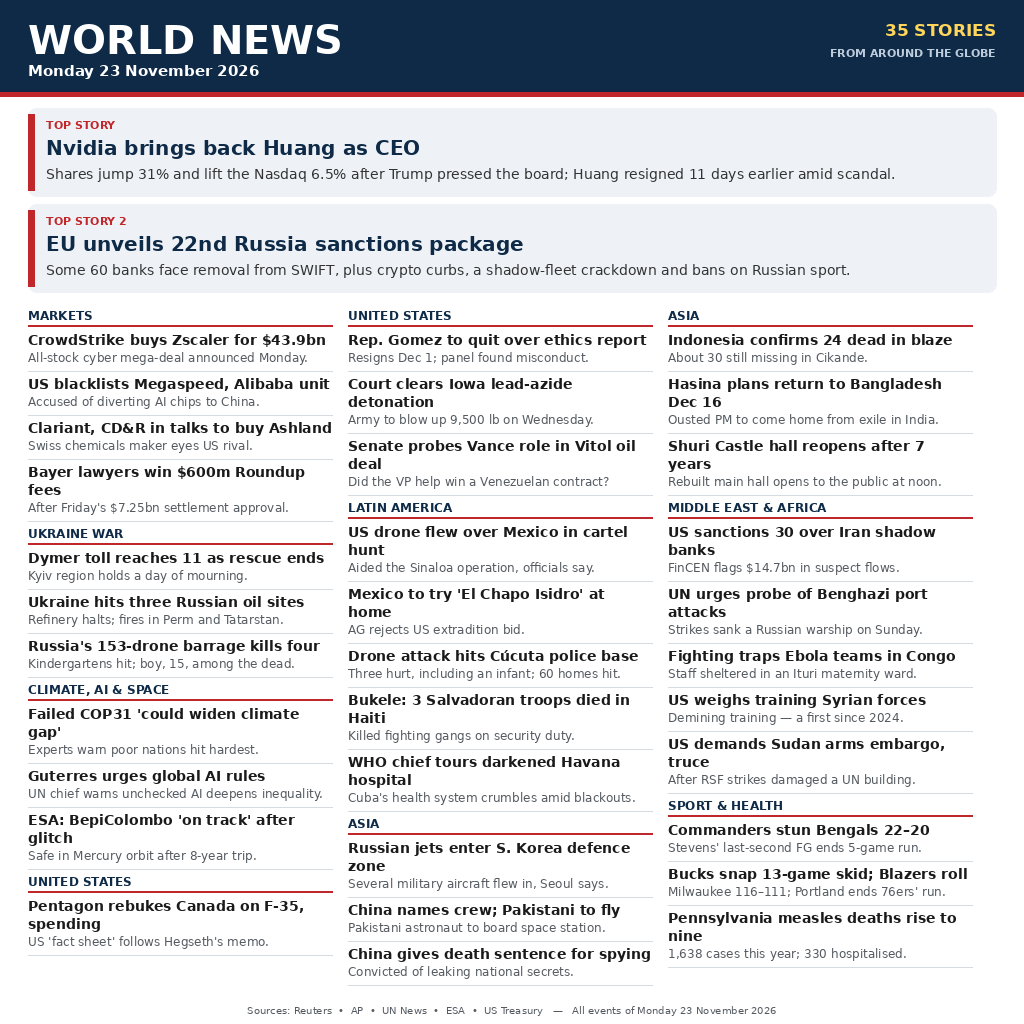
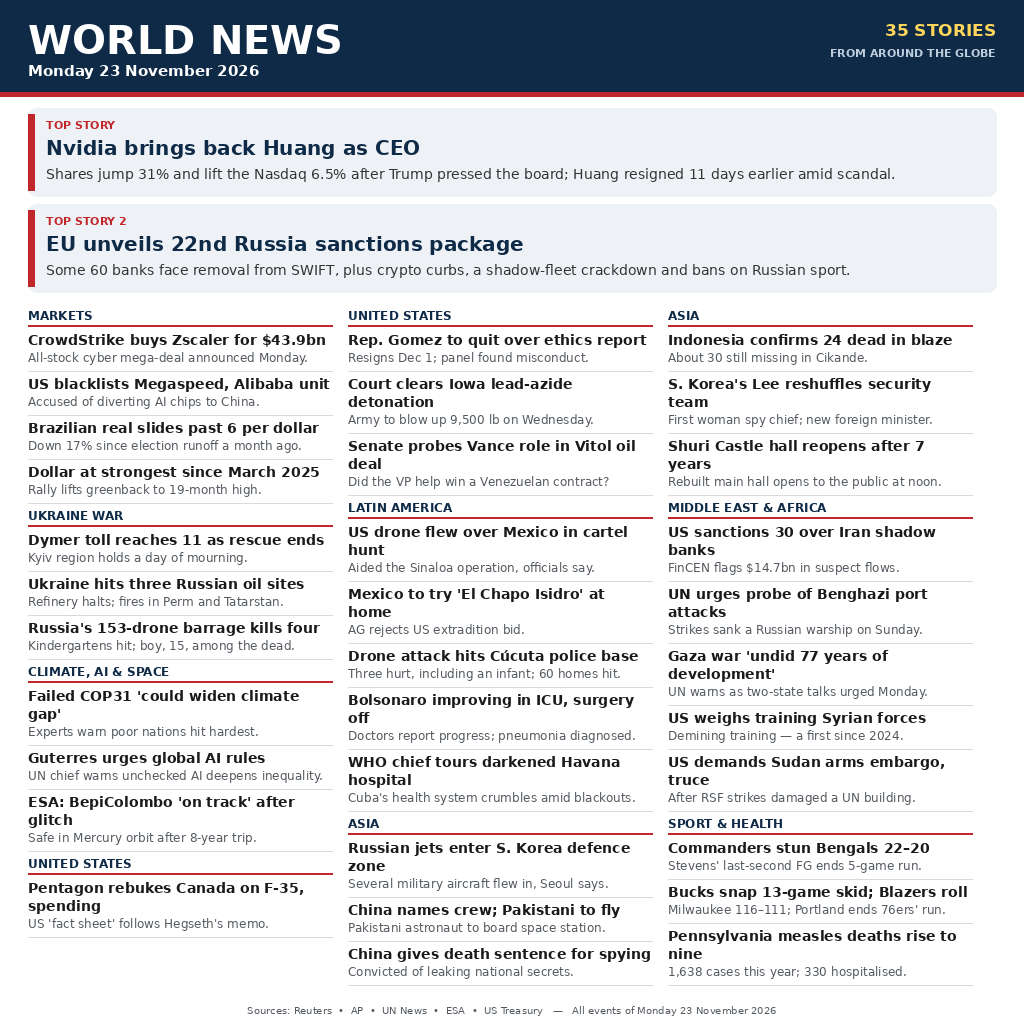
Replace 5 misdated stories (#8, #15, #16, #18, #22) with verified 23 Nov 2026 items

diff --git a/generate.py b/generate.py
@@ -65,10 +65,10 @@ ITEMS = [
      "All-stock cyber mega-deal announced Monday."),
     ("MARKETS", "US blacklists Megaspeed, Alibaba unit",
      "Accused of diverting AI chips to China."),
-    ("MARKETS", "Clariant, CD&R in talks to buy Ashland",
-     "Swiss chemicals maker eyes US rival."),
-    ("MARKETS", "Bayer lawyers win $600m Roundup fees",
-     "After Friday's $7.25bn settlement approval."),
+    ("MARKETS", "Brazilian real slides past 6 per dollar",
+     "Down 17% since election runoff a month ago."),
+    ("MARKETS", "Dollar at strongest since March 2025",
+     "Rally lifts greenback to 19-month high."),
     ("UKRAINE WAR", "Dymer toll reaches 11 as rescue ends",
      "Kyiv region holds a day of mourning."),
     ("UKRAINE WAR", "Ukraine hits three Russian oil sites",
@@ -95,8 +95,8 @@ ITEMS = [
      "AG rejects US extradition bid."),
     ("LATIN AMERICA", "Drone attack hits Cúcuta police base",
      "Three hurt, including an infant; 60 homes hit."),
-    ("LATIN AMERICA", "Bukele: 3 Salvadoran troops died in Haiti",
-     "Killed fighting gangs on security duty."),
+    ("LATIN AMERICA", "Bolsonaro improving in ICU, surgery off",
+     "Doctors report progress; pneumonia diagnosed."),
     ("LATIN AMERICA", "WHO chief tours darkened Havana hospital",
      "Cuba's health system crumbles amid blackouts."),
     ("ASIA", "Russian jets enter S. Korea defence zone",
@@ -107,16 +107,16 @@ ITEMS = [
      "Convicted of leaking national secrets."),
     ("ASIA", "Indonesia confirms 24 dead in blaze",
      "About 30 still missing in Cikande."),
-    ("ASIA", "Hasina plans return to Bangladesh Dec 16",
-     "Ousted PM to come home from exile in India."),
+    ("ASIA", "S. Korea's Lee reshuffles security team",
+     "First woman spy chief; new foreign minister."),
     ("ASIA", "Shuri Castle hall reopens after 7 years",
      "Rebuilt main hall opens to the public at noon."),
     ("MIDDLE EAST & AFRICA", "US sanctions 30 over Iran shadow banks",
      "FinCEN flags $14.7bn in suspect flows."),
     ("MIDDLE EAST & AFRICA", "UN urges probe of Benghazi port attacks",
      "Strikes sank a Russian warship on Sunday."),
-    ("MIDDLE EAST & AFRICA", "Fighting traps Ebola teams in Congo",
-     "Staff sheltered in an Ituri maternity ward."),
+    ("MIDDLE EAST & AFRICA", "Gaza war 'undid 77 years of development'",
+     "UN warns as two-state talks urged Monday."),
     ("MIDDLE EAST & AFRICA", "US weighs training Syrian forces",
      "Demining training — a first since 2024."),
     ("MIDDLE EAST & AFRICA", "US demands Sudan arms embargo, truce",
